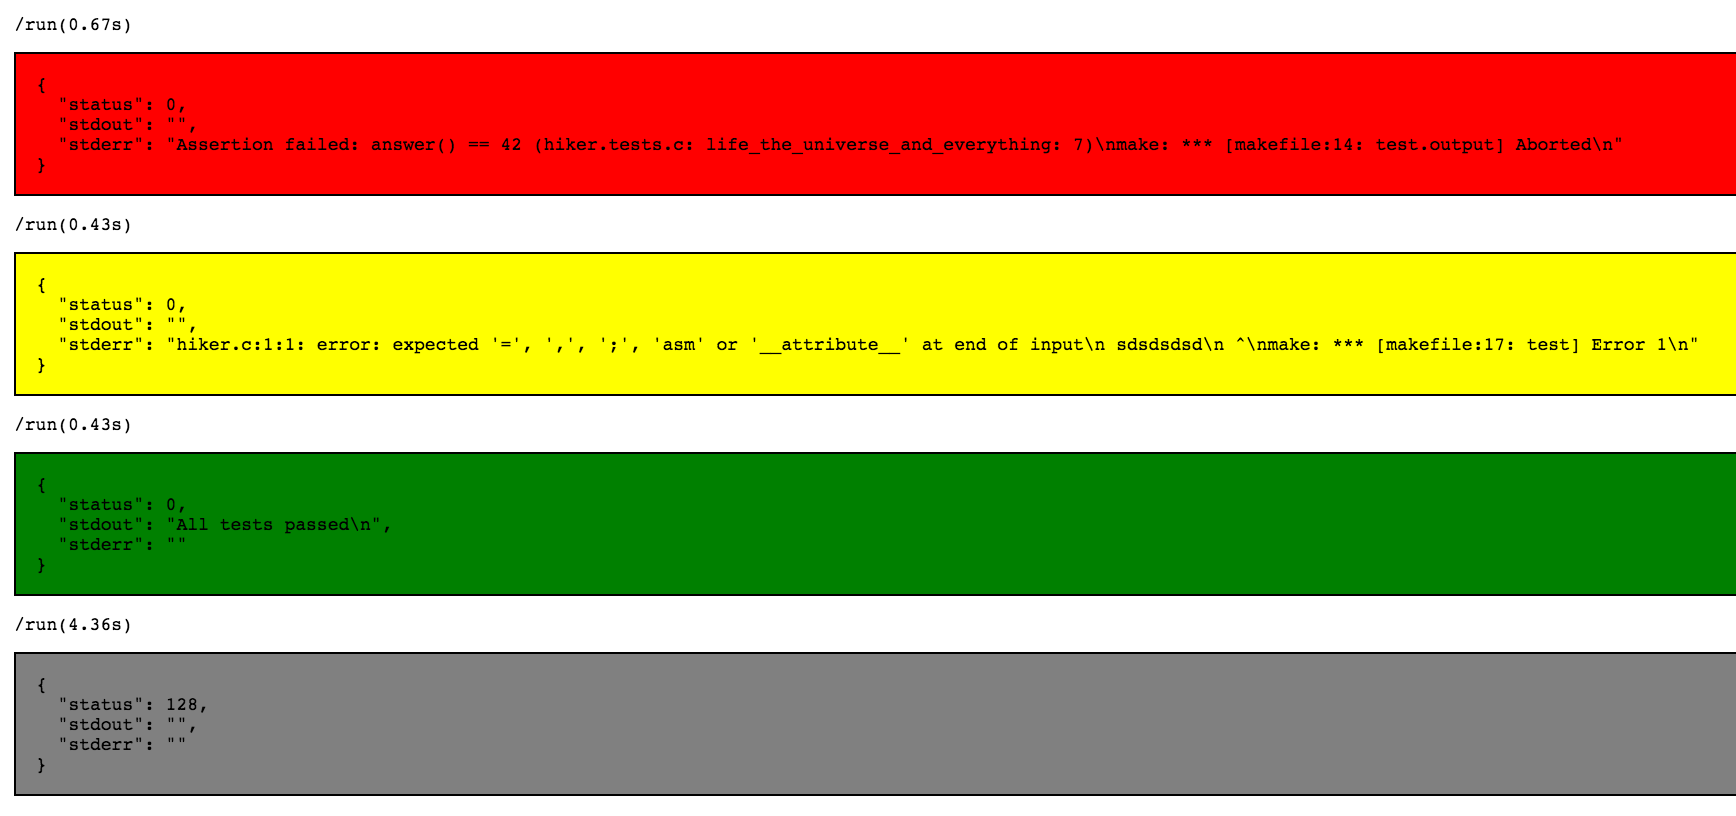
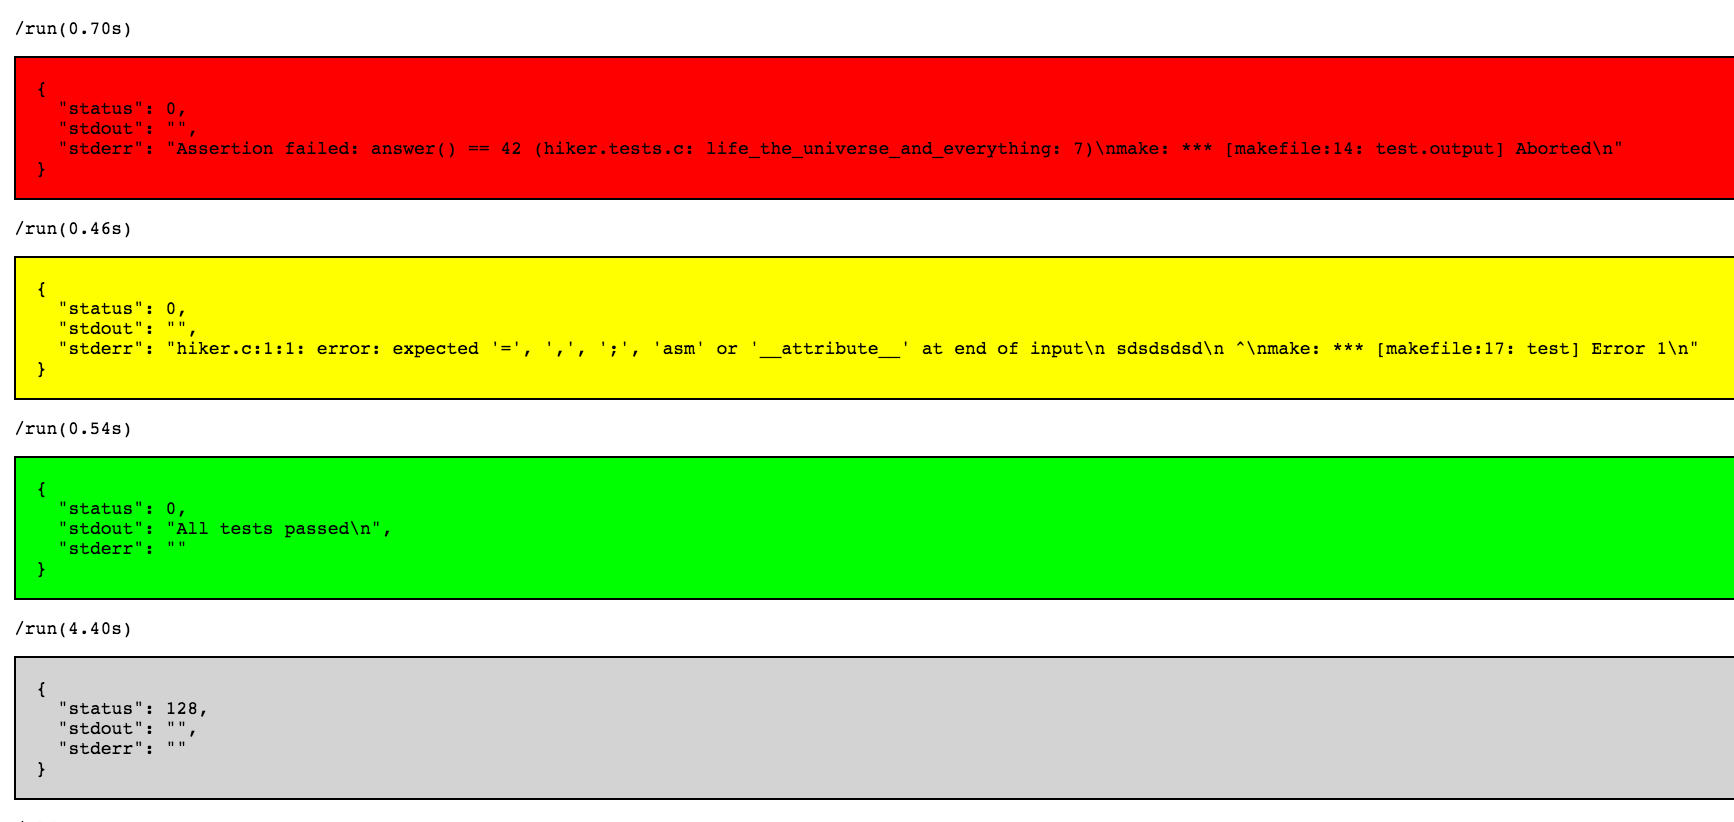
refactoring

diff --git a/server/test/src/external_sheller_test.rb b/server/test/src/external_sheller_test.rb
@@ -1,7 +1,6 @@
 require_relative './runner_test_base'
 require_relative './spy_logger'
 
-
 class ExternalShellerTest < RunnerTestBase
 
   def self.hex_prefix
@@ -70,7 +69,7 @@ class ExternalShellerTest < RunnerTestBase
   'when exec(cmd,logging=false) with output fails:',
   '(1)output,status are captured and returned',
   '(2)cmd,output,status are not logged' do
-    shell_exec('sed salmon 2>&1', log=false)
+    shell_exec('sed salmon 2>&1', logginf = false)
     assert_output "sed: unmatched 'a'\n"
     assert_status 1
     assert_log []
@@ -94,8 +93,8 @@ class ExternalShellerTest < RunnerTestBase
 
   # - - - - - - - - - - - - - - - - -
 
-  def shell_exec(command, log=true)
-    @output, @status = shell.exec(command, log)
+  def shell_exec(command, logging = true)
+    @output, @status = shell.exec(command, logging)
   end
 
   def assert_output(expected)
@@ -108,7 +107,7 @@ class ExternalShellerTest < RunnerTestBase
 
   def assert_log(expected)
     line = '-' * 40
-    expected = [line] + expected if expected != []
+    expected.unshift(line) unless expected == []
     assert_equal expected, log.spied
   end
 

diff --git a/client/src/demo.rb b/client/src/demo.rb
@@ -27,19 +27,19 @@ class Demo < Sinatra::Base
     html += pre('new_avatar', duration, json)
 
     duration = timed { json = run(tests_run_but_fail) }
-    html += pre('run', duration, json, 'red')
+    html += pre('run', duration, json, 'Red')
 
     syntax_error = { 'hiker.c' => 'sdsdsdsd' }
     duration = timed { json = run(syntax_error) }
-    html += pre('run', duration, json, 'yellow')
+    html += pre('run', duration, json, 'Yellow')
 
     tests_run_and_pass = { 'hiker.c' => hiker_c.sub('6 * 9', '6 * 7') }
     duration = timed { json = run(tests_run_and_pass) }
-    html += pre('run', duration, json, 'green')
+    html += pre('run', duration, json, 'Lime')
 
     times_out = { 'hiker.c' => hiker_c.sub('return', 'for(;;); return') }
     duration = timed { json = run(times_out, 3) }
-    html += pre('run', duration, json, 'gray')
+    html += pre('run', duration, json, 'LightGray')
 
     duration = timed { json = runner.old_avatar(kata_id, avatar_name) }
     html += pre('old_avatar', duration, json)
